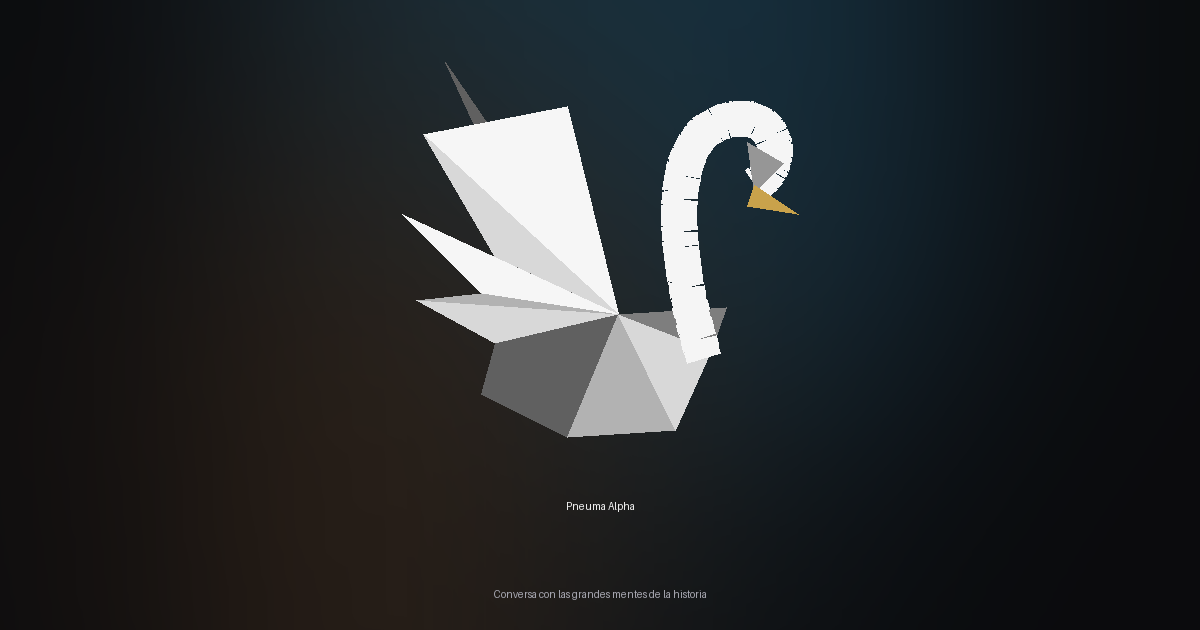
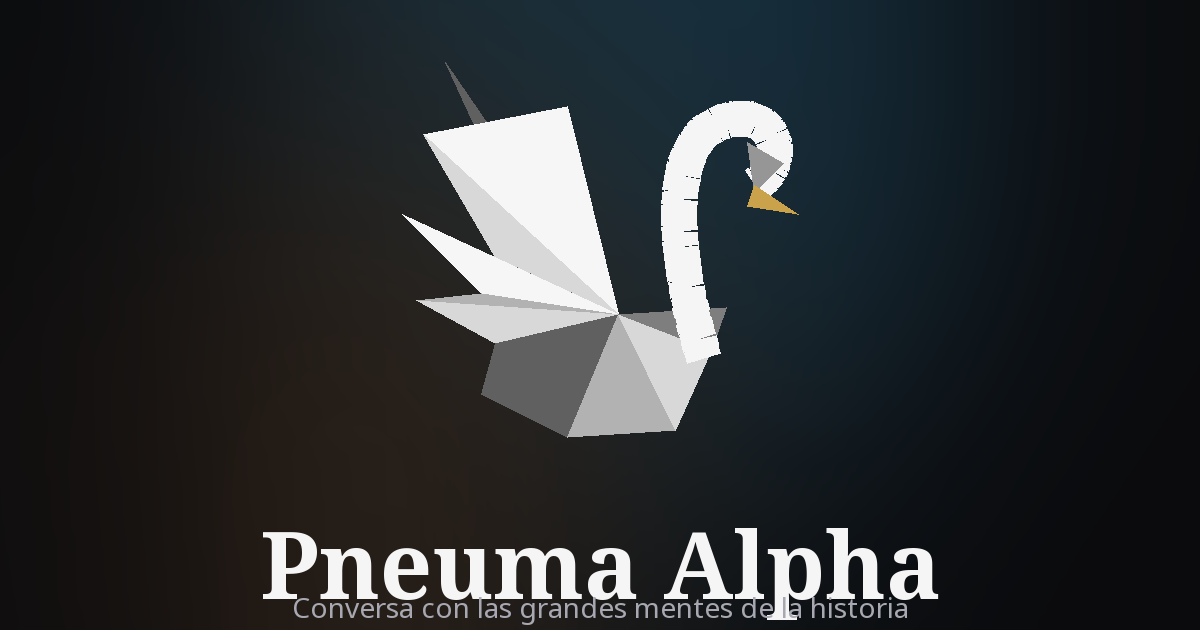
Changes

Changed region(s): [[0.2158, 0.8143, 0.8017, 0.9952], [0.4625, 0.7841, 0.5242, 0.8143]]

diff --git a/scripts/generate-og-image.py b/scripts/generate-og-image.py
@@ -70,7 +70,7 @@ def font(candidates, size, weight=None):
             f = ImageFont.truetype(path, size)
             if weight is not None:
                 try:
-                    f.set_variation_by_axes([weight])
+                    f.set_variation_by_name(weight)
                 except Exception:
                     pass
             return f
@@ -85,7 +85,7 @@ NOTO = glob.glob("/nix/store/*noto-fonts*/share/fonts/noto")
 SERIF = [f"{d}/NotoSerif[wdth,wght].ttf" for d in NOTO] + ["C:/Windows/Fonts/GARABD.TTF"]
 SANS = [f"{d}/NotoSans[wdth,wght].ttf" for d in NOTO] + ["C:/Windows/Fonts/arial.ttf"]
 
-serif_b = font(SERIF, 92, weight=700)
+serif_b = font(SERIF, 92, weight="Bold")
 sans = font(SANS, 28)
 
 
